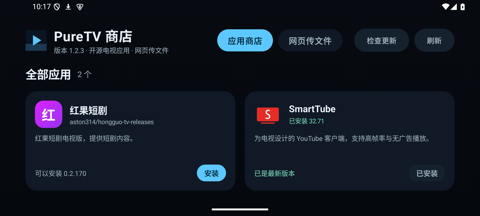
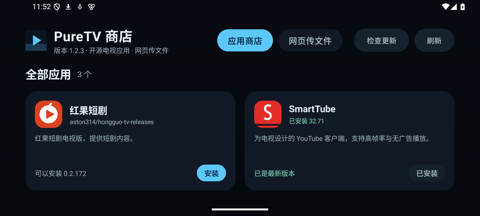
应用图标裁剪透明边距以填满图标区域

diff --git a/app/src/main/java/com/puretv/store/data/AppIconLoader.kt b/app/src/main/java/com/puretv/store/data/AppIconLoader.kt
@@ -29,7 +29,7 @@ object AppIconLoader {
     ): ImageBitmap? = withContext(Dispatchers.IO) {
         val installedIcon = if (installed) installedIcon(context, app.packageName) else null
         val bitmap = installedIcon ?: app.iconUrl?.let { loadRemote(context, it) }
-        bitmap?.asImageBitmap()
+        bitmap?.let(::trimTransparent)?.asImageBitmap()
     }
 
     private fun installedIcon(context: Context, packageName: String): Bitmap? = runCatching {
@@ -38,6 +38,40 @@ object AppIconLoader {
             .toBitmap(width = 144, height = 144)
             .let { if (it.width > 144) Bitmap.createScaledBitmap(it, 144, 144, true) else it }
     }.getOrNull()
+
+    /**
+     * Removes transparent padding around the artwork so the icon fills its tile.
+     * Icons that already reach the edges are returned unchanged.
+     */
+    private fun trimTransparent(source: Bitmap): Bitmap {
+        val width = source.width
+        val height = source.height
+        if (width <= 0 || height <= 0) return source
+        val pixels = IntArray(width * height)
+        source.getPixels(pixels, 0, width, 0, 0, width, height)
+        var left = width
+        var top = height
+        var right = -1
+        var bottom = -1
+        for (y in 0 until height) {
+            val row = y * width
+            for (x in 0 until width) {
+                if (pixels[row + x] ushr 24 != 0) {
+                    if (x < left) left = x
+                    if (x > right) right = x
+                    if (y < top) top = y
+                    if (y > bottom) bottom = y
+                }
+            }
+        }
+        if (right < left || bottom < top) return source
+        val trimmedWidth = right - left + 1
+        val trimmedHeight = bottom - top + 1
+        if (trimmedWidth >= width * 0.99f && trimmedHeight >= height * 0.99f) return source
+        return runCatching {
+            Bitmap.createBitmap(source, left, top, trimmedWidth, trimmedHeight)
+        }.getOrDefault(source)
+    }
 
     private fun loadRemote(context: Context, url: String): Bitmap? {
         memory.get(url)?.let { return it }

diff --git a/AGENTS.md b/AGENTS.md
@@ -100,6 +100,8 @@
   `Dialog` 窗口：部分电视上对话框拿不到初始焦点，遥控器方向键/确定键无法操作。
 - 应用卡片优先显示真实图标：已安装包用 `PackageManager` 图标，未安装用清单 `iconUrl`；
   只有两者都不可用时才用首字母色块。图标请求在 IO 线程并缓存，不阻塞滚动。
+- 图标绘制前必须裁掉透明边距（`AppIconLoader.trimTransparent`），让图像填满卡片图标区域；
+  不要通过缩小图片或在图片外再加内边距来“留白”。
 - 清单只能来自 `store/apps.json`、上次成功缓存或内置资产；不要从用户输入拼 URL。
 - 包名进入 `PackageManager` 前必须通过包名正则校验；仓库名必须符合 `owner/repo`。
 - 版本比较按数字段，不得用字符串排序；缺少已装版本视为可安装。

diff --git a/CHANGELOG.md b/CHANGELOG.md
@@ -1,5 +1,11 @@
 # Changelog
 
+## [1.2.4] - 2026-11-16
+
+### 修复
+
+- 应用图标自动裁掉四周透明边距，填满卡片图标区域（已安装应用与远程图标都生效）。
+
 ## [1.2.3] - 2026-11-14
 
 ### 改进
